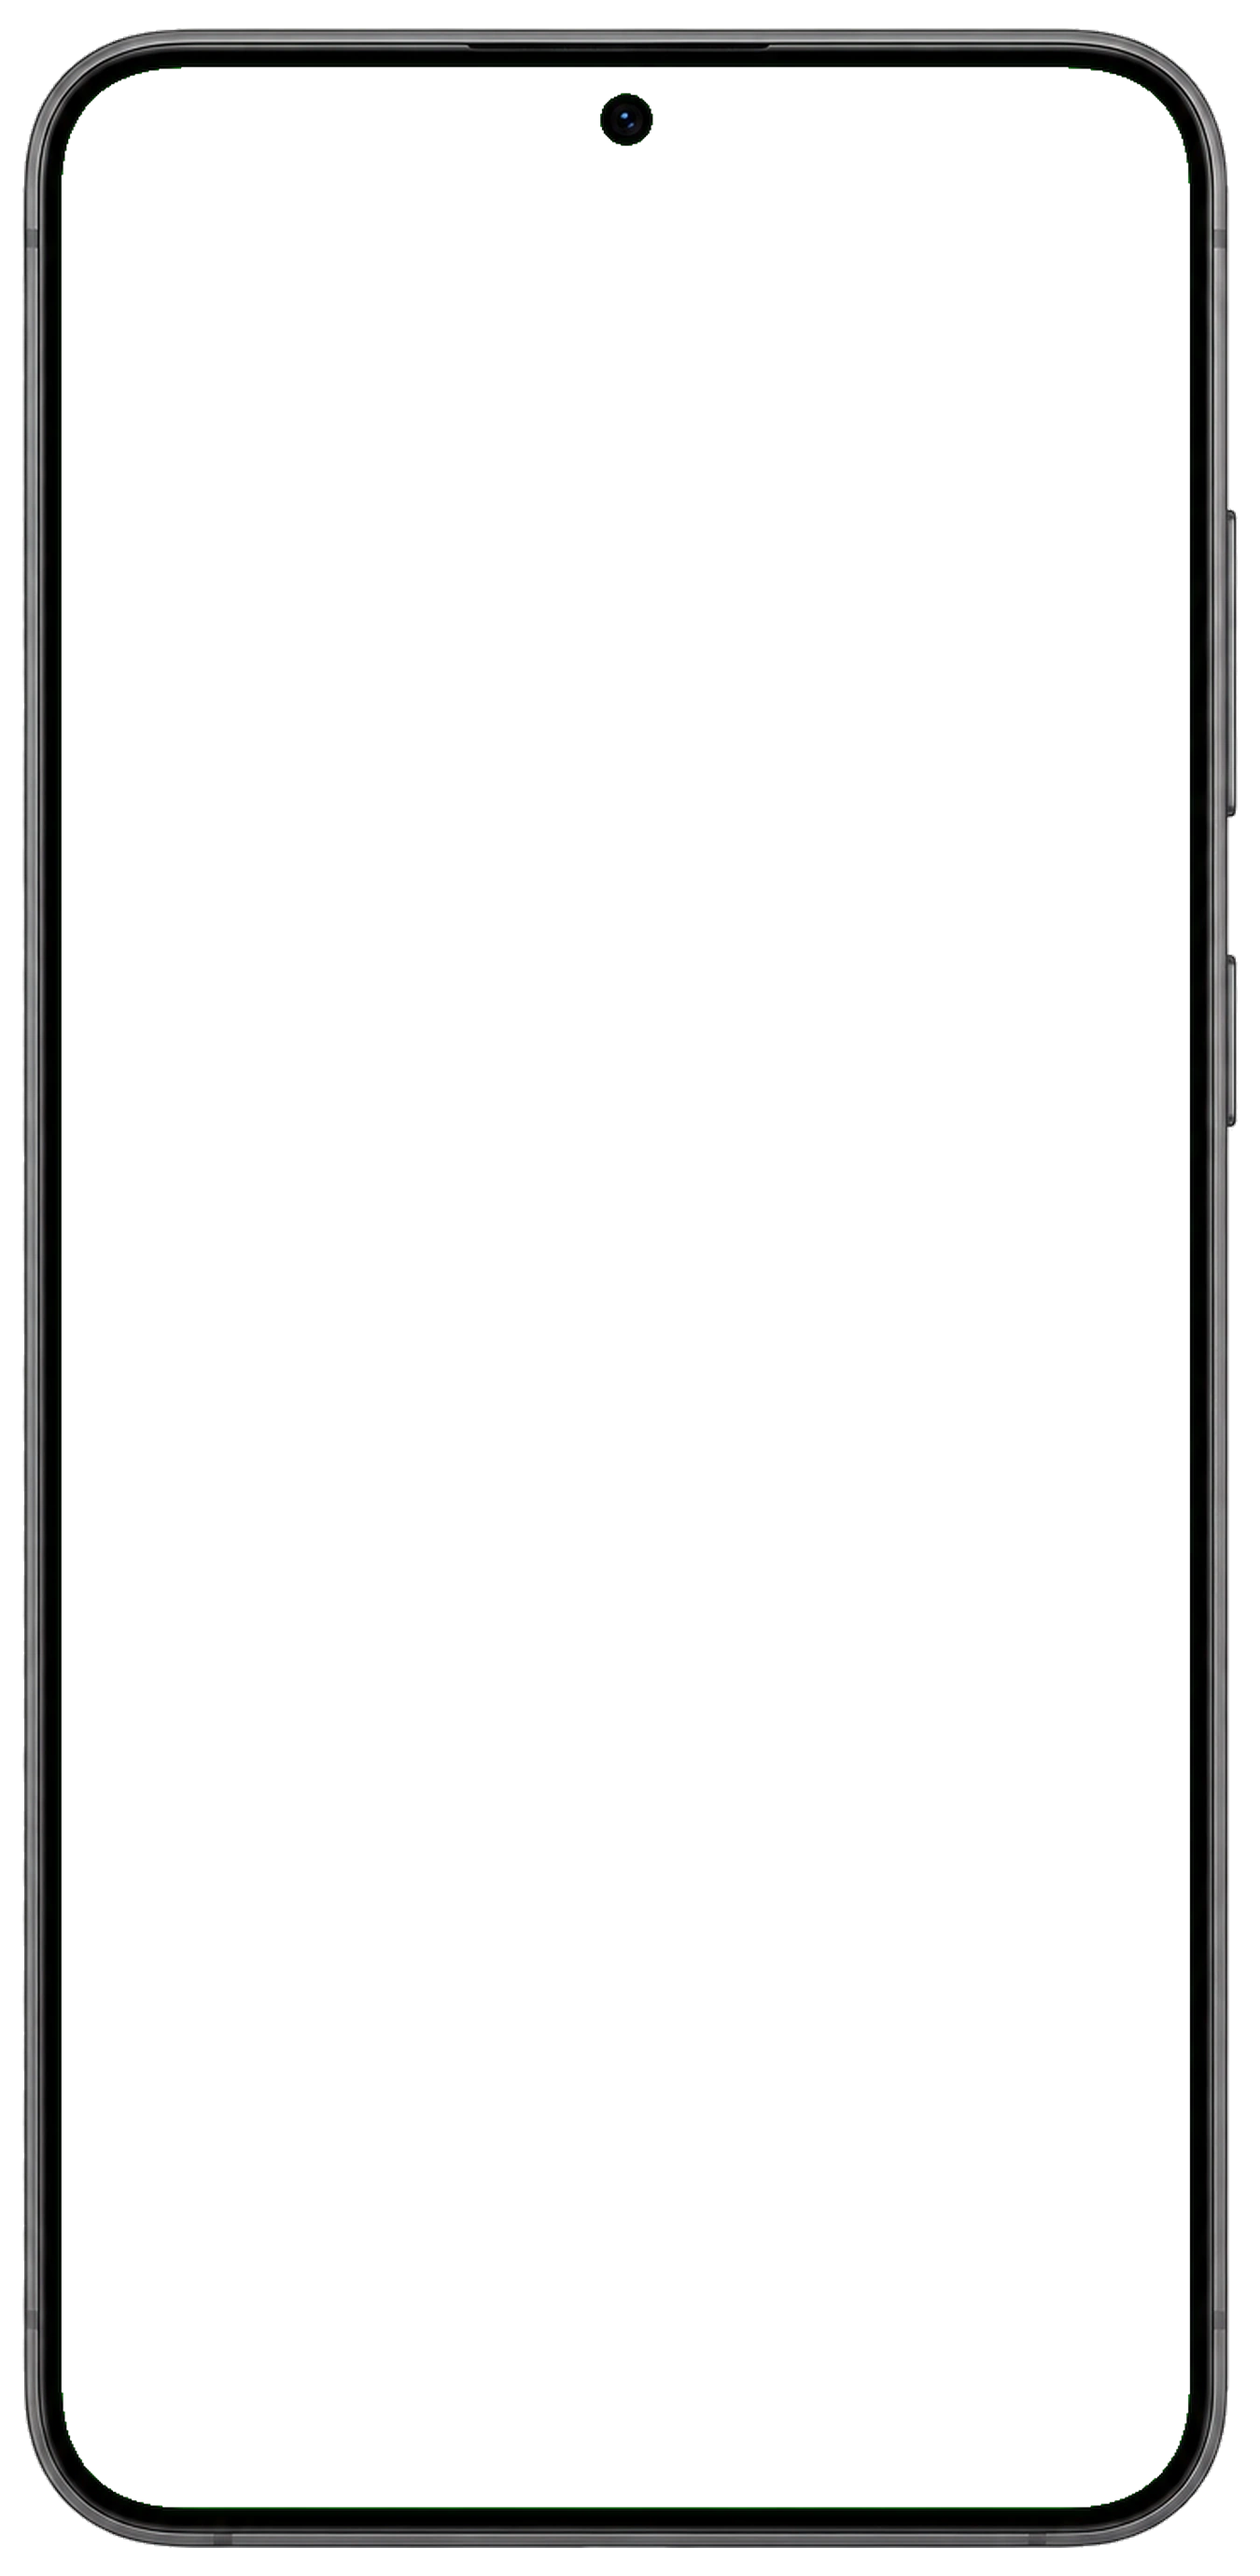
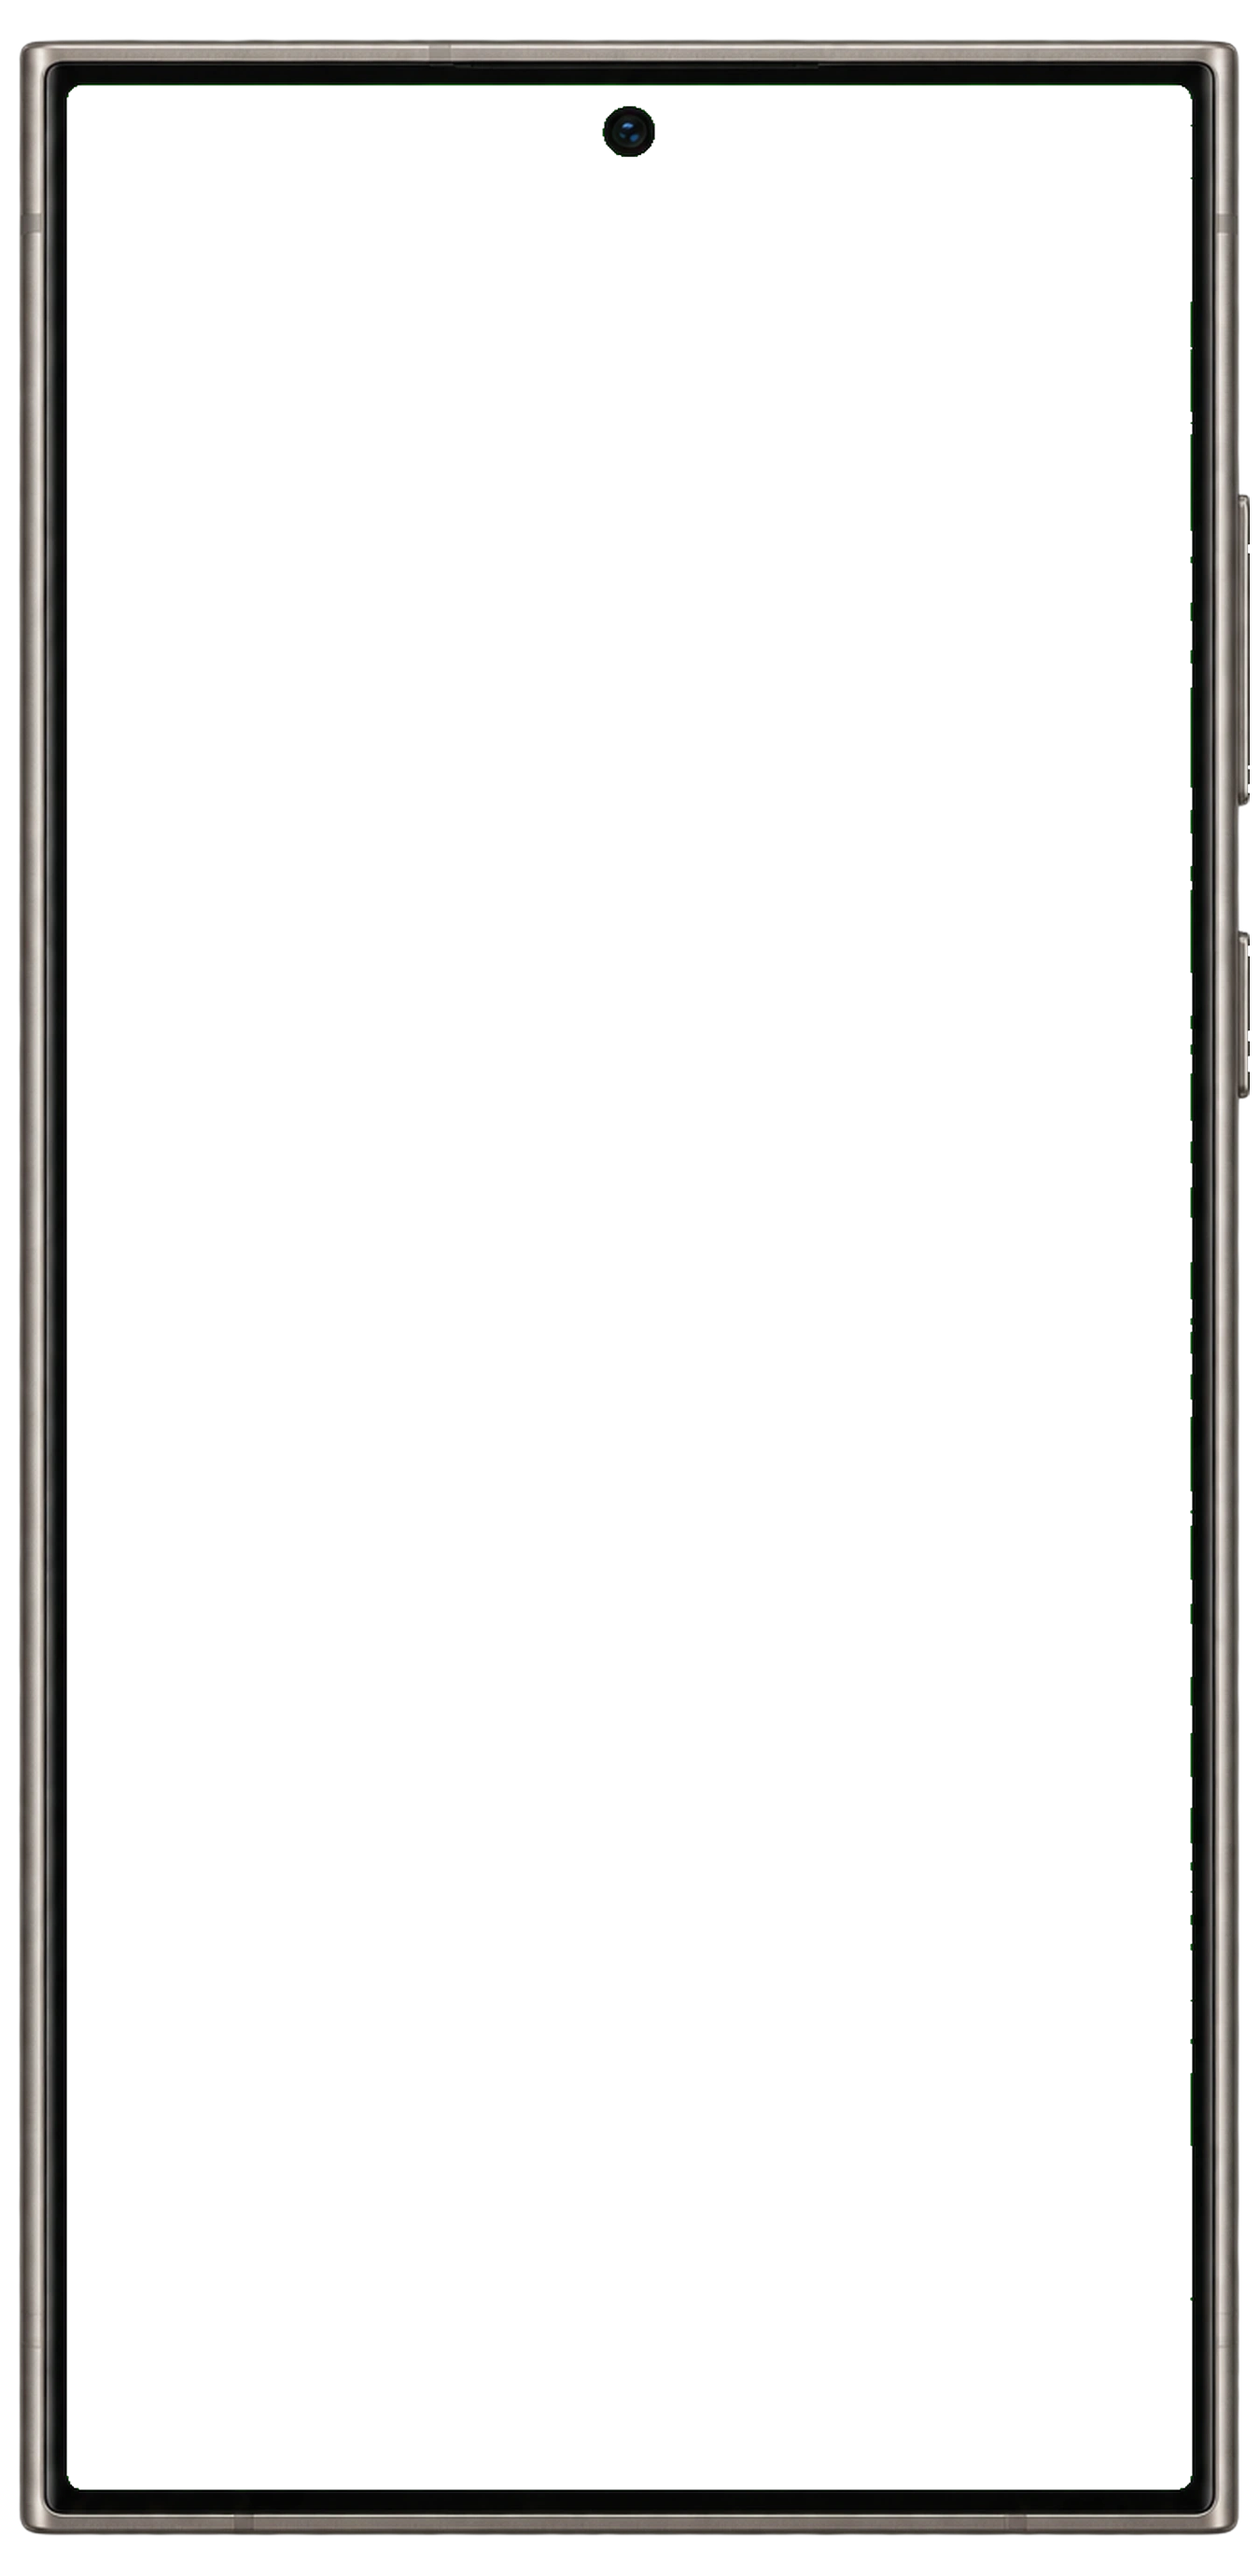
fix(bezels): eliminate chroma bleed and perfectly close S24 Ultra and Pura 70 hardware frames

Changed region(s): [[0.0, 0.0, 0.9956, 0.9971]]

diff --git a/src/style.css b/src/style.css
@@ -1565,22 +1565,22 @@
   contain: paint layout;
 }
 
-/* 真实三星 Galaxy S24 专属屏幕视口与小直屏圆角 */
+/* 真实三星 Galaxy S24 Ultra 专属屏幕视口与纯平微圆角 (R=10) */
 .device[data-platform="android"] .device-screen {
-  left: 4.96%;
-  top: 5.69%;
-  width: 89.41%;
-  height: 91.63%;
-  border-radius: 4.8%/2.3%;
+  left: 5.41%;
+  top: 3.30%;
+  width: 88.96%;
+  height: 93.26%;
+  border-radius: 1.2%/0.6%;
 }
 
-/* 真实华为 Pura 70 专属屏幕视口与微弧直屏圆角 */
+/* 真实华为 Pura 70 专属屏幕视口与直屏圆角 */
 .device[data-platform="harmony"] .device-screen {
   left: 6.74%;
-  top: 5.91%;
-  width: 85.41%;
-  height: 91.45%;
-  border-radius: 6.2%/3.0%;
+  top: 3.37%;
+  width: 85.63%;
+  height: 93.12%;
+  border-radius: 8.8%/4.2%;
 }
 
 .device-screen > .phone-ui {
